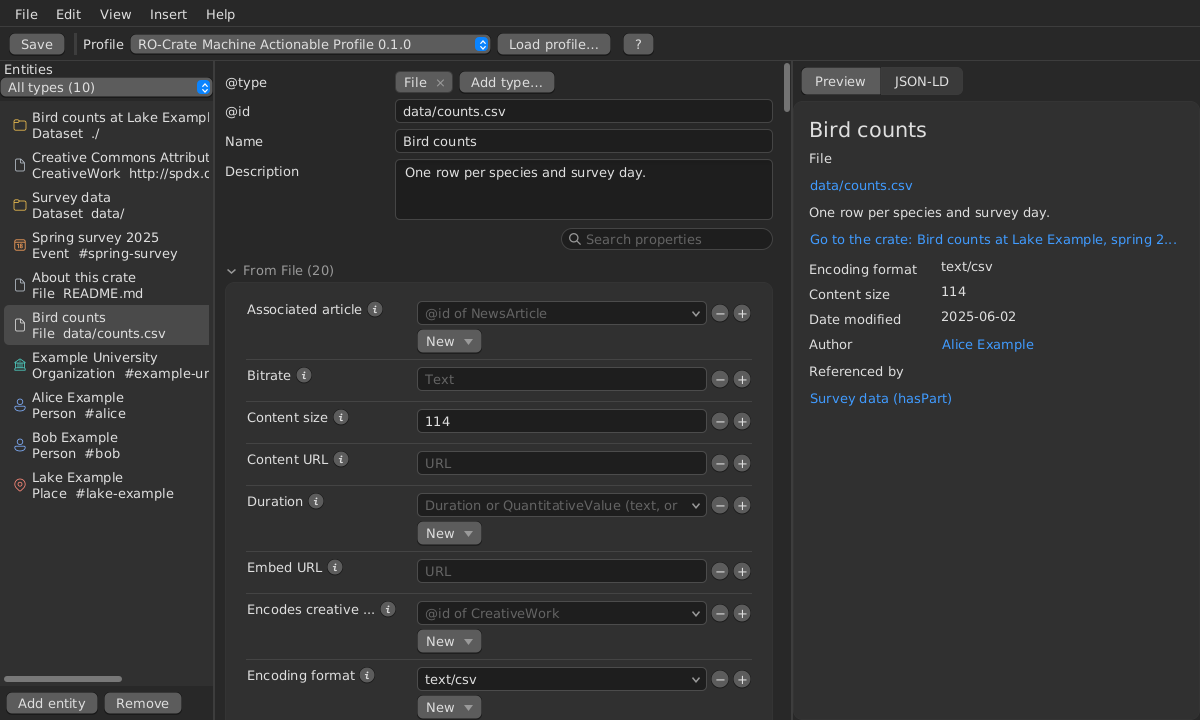
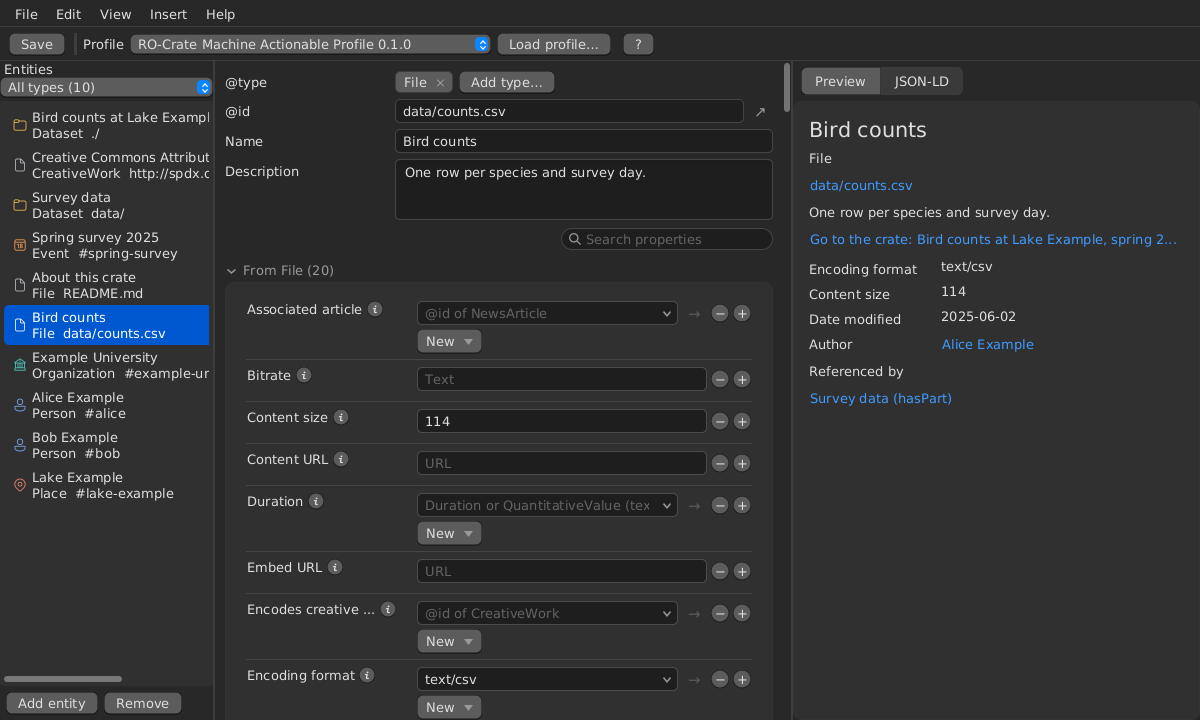
→ beside a reference shows the entity it links to; ↗ beside @id opens its address; small buttons never squeezed to ...
In the Classic and Warp styles, × beside a long value could be shown as
"...", as its text was cut: small icon buttons now keep their size.

diff --git a/ui/src/main/java/no/s11/wpsld/ui/EntityEditor.java b/ui/src/main/java/no/s11/wpsld/ui/EntityEditor.java
@@ -143,6 +143,14 @@ public class EntityEditor extends ScrollPane {
 	private Runnable onStep = () -> {
 	};
 	/** Opens a web address, e.g. in the browser */
+	/** Show another entity, e.g. one a reference links to */
+	private Consumer<Entity> show = e -> {
+	};
+	/**
+	 * Where an @id leads, to open: a web address, or the file or folder
+	 * beside the crate it names; none for #local and _:blank ones
+	 */
+	private Function<String, Optional<String>> address = id -> Optional.empty();
 	private Consumer<String> browse = address -> {
 	};
 	private Consumer<Window> typeHelp;
@@ -435,8 +443,22 @@ public class EntityEditor extends ScrollPane {
 				applyId.run();
 			}
 		});
+		// Open where the @id leads, as the preview's link does
+		Button openId = iconButton("↗", FluentUiRegularMZ.OPEN_16);
+		openId.setId("openId");
+		Runnable updateOpenId = () -> {
+			Optional<String> to = address.apply(idField.getText().strip());
+			openId.setDisable(to.isEmpty());
+			openId.setTooltip(new Tooltip(to.map(a -> "Open " + a).orElse("Not a web address or a file to open")));
+		};
+		updateOpenId.run();
+		idField.textProperty().addListener((obs, old, v) -> updateOpenId.run());
+		openId.setOnAction(e -> address.apply(idField.getText().strip()).ifPresent(browse));
+		HBox.setHgrow(idField, Priority.ALWAYS);
+		HBox idRow = new HBox(4, idField, openId);
+		idRow.setAlignment(Pos.CENTER_LEFT);
 		header.addRow(0, new Label("@type"), typeChips());
-		header.addRow(1, new Label("@id"), idField);
+		header.addRow(1, new Label("@id"), idRow);
 		form.getChildren().add(header);
 		noMatches.setVisible(false);
 		noMatches.setManaged(false);
@@ -980,6 +1002,8 @@ public class EntityEditor extends ScrollPane {
 		graphic.getStyleClass().add("icon");
 		Button button = new Button(text, graphic);
 		button.getStyleClass().add("icon-button");
+		// Never squeezed to "...", e.g. beside a long value
+		button.setMinWidth(Region.USE_PREF_SIZE);
 		return button;
 	}
 
@@ -1274,6 +1298,21 @@ public class EntityEditor extends ScrollPane {
 	 */
 	public void setFindLicense(Supplier<Optional<SPDXLicenses.License>> findLicense) {
 		this.findLicense = Objects.requireNonNull(findLicense);
+	}
+
+	/**
+	 * Set how to show another entity, as the → beside a reference does.
+	 */
+	public void setShow(Consumer<Entity> show) {
+		this.show = Objects.requireNonNull(show);
+	}
+
+	/**
+	 * Set where an @id leads, for the ↗ beside it, e.g. a web address or a
+	 * file beside the crate.
+	 */
+	public void setAddress(Function<String, Optional<String>> address) {
+		this.address = Objects.requireNonNull(address);
 	}
 
 	/**
@@ -1672,6 +1711,20 @@ public class EntityEditor extends ScrollPane {
 					: iconButton("×", FluentUiRegularAL.DISMISS_16);
 			remove.setTooltip(new Tooltip("Remove this value"));
 			HBox rowNode = new HBox(4, control, remove);
+			if (control instanceof ComboBox<?> combo && combo.isEditable()) {
+				// → shows the entity the reference links to
+				Button open = iconButton("→", FluentUiRegularAL.ARROW_FORWARD_16);
+				open.setId(id(prefix("open"), field.name()) + "-" + rows.size());
+				Runnable updateOpen = () -> {
+					Optional<Entity> linked = crateEntity(combo.getEditor().getText().strip());
+					open.setDisable(linked.isEmpty());
+					open.setTooltip(new Tooltip(linked.map(l -> "Show " + l.getLabel()).orElse("Not an entity of the crate")));
+				};
+				updateOpen.run();
+				combo.getEditor().textProperty().addListener((obs, old, v) -> updateOpen.run());
+				open.setOnAction(e -> crateEntity(combo.getEditor().getText().strip()).ifPresent(show));
+				rowNode.getChildren().add(1, open);
+			}
 			rowNode.setAlignment(Pos.CENTER_LEFT);
 			Row row = new Row(rowNode, text);
 			remove.setOnAction(e -> {

diff --git a/ui/src/test/java/no/s11/wpsld/ui/TestCrateEditorEntityList.java b/ui/src/test/java/no/s11/wpsld/ui/TestCrateEditorEntityList.java
@@ -263,6 +263,26 @@ public class TestCrateEditorEntityList extends ApplicationTest {
 		assertTrue(menuItem("menuRemove").isDisable());
 	}
 
+	/** → beside a reference shows the entity it links to; ↗ opens a web @id */
+	@Test
+	public void openFromForm() throws Exception {
+		addNamed("Organization", "Example University");
+		String university = lookup("#entityId").queryAs(TextField.class).getText();
+		assertTrue(lookup("#openId").query().isDisabled());
+		addNamed("Person", "Alice");
+		assertTrue(lookup("#open-affiliation-0").query().isDisabled());
+		interact(() -> lookup("#value-affiliation-0").queryAs(ComboBox.class).getEditor().setText(university));
+		assertFalse(lookup("#open-affiliation-0").query().isDisabled());
+		clickOn("#open-affiliation-0");
+		WaitForAsyncUtils.waitForFxEvents();
+		assertEquals("Example University", lookup("#header-name").queryAs(TextField.class).getText());
+		assertEquals("Example University", entities().getSelectionModel().getSelectedItem().getLabel());
+		// A web address as @id can be opened
+		TextField id = lookup("#entityId").queryAs(TextField.class);
+		interact(() -> id.setText("https://ror.org/01xtthb56"));
+		assertFalse(lookup("#openId").query().isDisabled());
+	}
+
 	@Test
 	public void editedNotListed() throws Exception {
 		addNamed("Person", "Alice");

diff --git a/ui/src/main/java/no/s11/wpsld/ui/CrateEditor.java b/ui/src/main/java/no/s11/wpsld/ui/CrateEditor.java
@@ -515,6 +515,9 @@ public class CrateEditor extends Application {
 		entityPreview = new EntityPreview(() -> crate, this::show,
 				address -> getHostServices().showDocument(address), property -> entityEditor.label(property));
 		entityPreview.setFolder(() -> crateFile.path().map(file -> file.toAbsolutePath().getParent()));
+		// Beside the form's references and @id: show the entity, or open the address
+		entityEditor.setShow(this::show);
+		entityEditor.setAddress(entityPreview::address);
 		Tab previewTab = new Tab("Preview", entityPreview);
 		previewTab.setId("previewTab");
 		Tab jsonTab = new Tab("JSON-LD", preview);

diff --git a/ui/src/main/java/no/s11/wpsld/ui/EntityPreview.java b/ui/src/main/java/no/s11/wpsld/ui/EntityPreview.java
@@ -260,6 +260,15 @@ public class EntityPreview extends ScrollPane {
 	}
 
 	/**
+	 * Where an <code>@id</code> leads, as {@link #identifier} links it: a
+	 * web address, or the address of the file or folder beside the crate;
+	 * none for others.
+	 */
+	Optional<String> address(String id) {
+		return isWebAddress(id) ? Optional.of(id) : local(id).map(file -> file.toUri().toString());
+	}
+
+	/**
 	 * The existing file or folder a relative <code>@id</code> names beside the
 	 * crate, e.g. <code>data/table.csv</code> or <code>./</code>; none for
 	 * <code>#local</code> ids, blank nodes and absolute URIs, or if the crate

diff --git a/ui/src/main/resources/no/s11/wpsld/ui/help/properties.md b/ui/src/main/resources/no/s11/wpsld/ui/help/properties.md
@@ -17,7 +17,8 @@ Enter a value in the field. Use **+** to add another value and **×** or
 For a reference field such as Author, open its drop-down and choose a
 matching entity, or type its `@id`. The suggestions can be filtered by
 name or identifier. You can also copy one entity from the list and paste
-it into a reference field: its identifier is inserted as a link.
+it into a reference field: its identifier is inserted as a link. Choose
+**→** beside a link to show the entity it links to.
 
 To create and link a new description, choose **New** beside the property
 and select a type from its menu. Select the new entity in the list to fill

diff --git a/ui/src/main/resources/no/s11/wpsld/ui/help/entities.md b/ui/src/main/resources/no/s11/wpsld/ui/help/entities.md
@@ -42,6 +42,10 @@ see [Properties and links](properties.md)) or another appropriate
 persistent identifier. A generated identifier beginning with `#` identifies
 an entity within this crate.
 
+**↗** beside `@id` opens a web address in the browser, or the file or
+folder beside the crate that a relative `@id` names; it is not available
+for identifiers beginning with `#` or `_:`.
+
 To change an identifier, select the entity, edit `@id` and press Enter or
 leave the field. Links to it are updated. If another entity already has
 that identifier, wpsld asks whether to merge them. Choose **Merge** only
